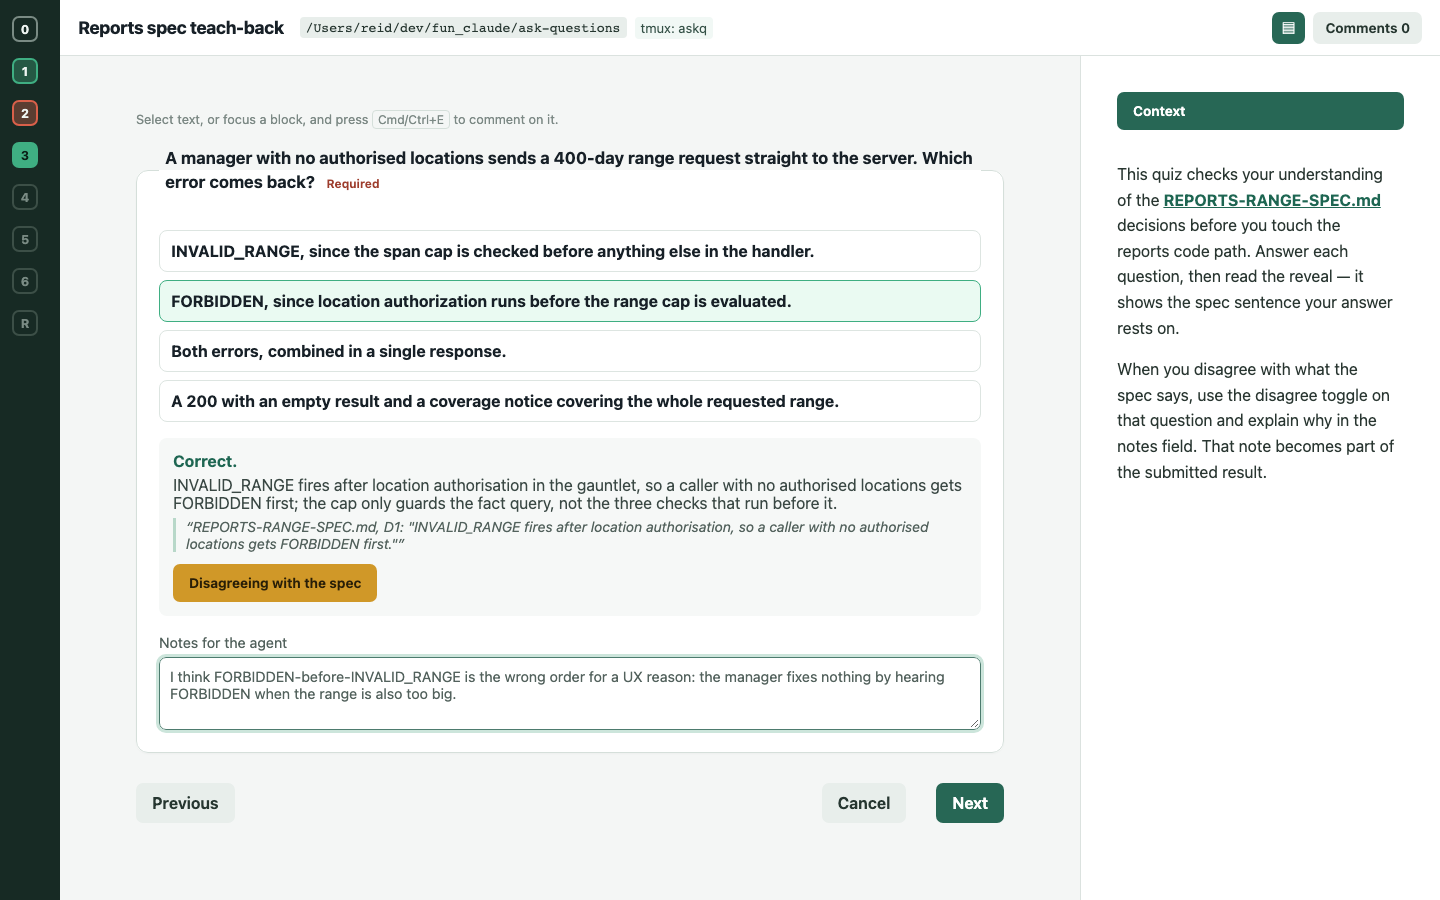
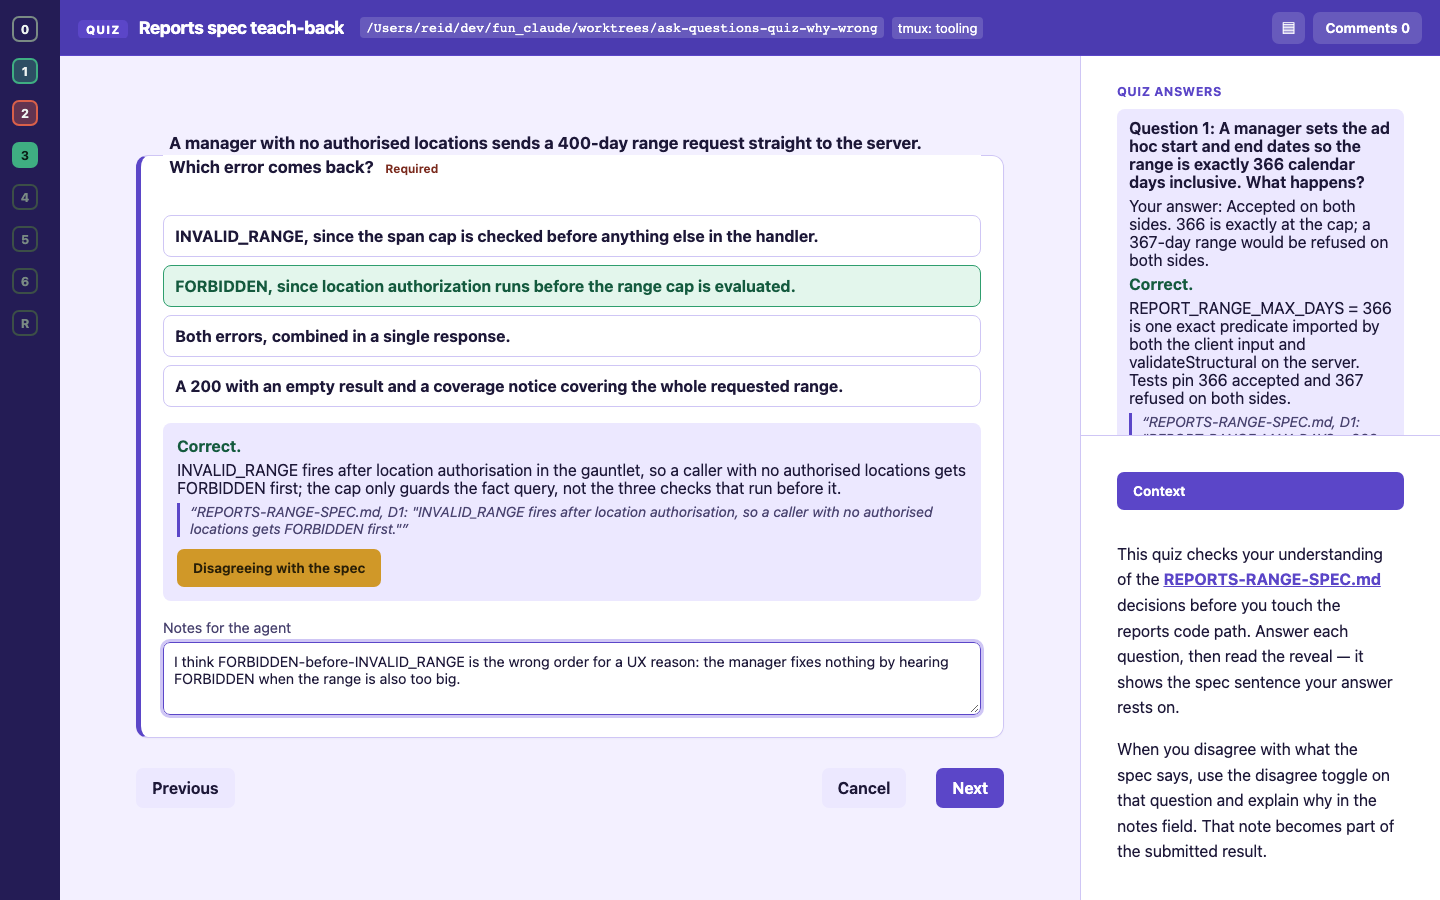
feat(quiz): every wrong option carries whyWrong; wrong picks show it; quiz forms get their own colour scheme
Each quiz option that is not the answer must now carry "whyWrong" (why this
choice is wrong compared with the right one); the answer option must not.
The validator refuses a quiz without it. After a wrong pick the form shows
that option's whyWrong before the why and cite; the review view and copied
summary list every wrong option's whyWrong for missed or disagreed questions.
A form made only of quiz questions gets a violet scheme with a QUIZ badge,
with a dark variant. Help, README, example and tests updated.

Claude-Session: https://claude.ai/code/session_01Kujo75X1zJefajDjYS5NZF

diff --git a/web/style.css b/web/style.css
@@ -190,6 +190,7 @@ button.primary { background: #276755; color: #fff; }
 .quiz-verdict { margin: 0 0 6px; font-weight: 700; }
 .quiz-verdict.correct { color: #1e6652; }
 .quiz-verdict.incorrect { color: #9d3d2d; }
+.quiz-why-wrong { margin: 6px 0; padding-left: 10px; border-left: 3px solid #d9604a; color: #7a3326; }
 .quiz-why { margin: 6px 0; color: #3a4844; }
 .quiz-cite { margin: 6px 0 0; padding-left: 10px; border-left: 3px solid #b8d8c9; color: #53625d; font-size: .88rem; font-style: italic; }
 .quiz-disagree-toggle { margin-top: 12px; background: #e8eeeb; color: #263630; font-size: .85rem; }
@@ -258,3 +259,68 @@ button.primary { background: #276755; color: #fff; }
 .diagram-source-hidden { display: none; }
 pre[data-diagram-state="failed"]::before { content: "Diagram could not be drawn. Source:"; display: block; margin-bottom: 6px; font: 600 .8rem sans-serif; color: #8a4b00; }
 .message img, .documents-pane img { max-width: 100%; height: auto; border-radius: 4px; }
+
+/* --- Quiz colour scheme --------------------------------------------------- */
+/* Applied by app.js (body.quiz-mode) only when every question is a quiz, so a quiz never looks like
+   a decision form. Light by default; the dark variant follows the system setting. Right (green) and
+   wrong (red) keep their meaning inside the scheme, and the whyWrong text has its own readable colour. */
+body.quiz-mode {
+  --q-bg: #f3f0ff; --q-card: #fff; --q-text: #1d1838; --q-muted: #4a4470; --q-border: #cfc6f5;
+  --q-accent: #5b46c8; --q-accent-text: #fff; --q-band: #4b3bb0; --q-band-text: #fff; --q-rail: #241c55;
+  --q-soft: #ece8ff; --q-reveal: #ece8ff;
+  --q-ok-bg: #e3f6ec; --q-ok-border: #2f9e6e; --q-ok-text: #145a3e;
+  --q-bad-bg: #fde8e4; --q-bad-border: #d9604a; --q-bad-text: #7a2a1d;
+  background: var(--q-bg); color: var(--q-text);
+}
+@media (prefers-color-scheme: dark) {
+  body.quiz-mode {
+    color-scheme: dark;
+    --q-bg: #151228; --q-card: #211c3f; --q-text: #ece9ff; --q-muted: #b9b2e6; --q-border: #3c3470;
+    --q-accent: #8d7bff; --q-accent-text: #120d33; --q-band: #2c2370; --q-band-text: #f1eeff; --q-rail: #0f0c20;
+    --q-soft: #2c2650; --q-reveal: #2c2650;
+    --q-ok-bg: #12372b; --q-ok-border: #4cc79a; --q-ok-text: #bff0dc;
+    --q-bad-bg: #44201c; --q-bad-border: #ff8a76; --q-bad-text: #ffd0c7;
+  }
+}
+body.quiz-mode .rail, body.quiz-mode .rail:hover .rail-items, body.quiz-mode .rail.pinned .rail-items, body.quiz-mode .rail-legend { background: var(--q-rail); }
+body.quiz-mode .app-header { background: var(--q-band); border-bottom-color: var(--q-accent); color: var(--q-band-text); }
+body.quiz-mode .app-title::before { content: "QUIZ"; margin-right: 10px; padding: 3px 8px; border-radius: 5px; background: var(--q-accent); color: var(--q-accent-text); font-size: .72rem; font-weight: 800; letter-spacing: .1em; vertical-align: middle; }
+body.quiz-mode .asker-path, body.quiz-mode .asker-tmux-window, body.quiz-mode .icon-button, body.quiz-mode .annotation-panel-toggle { background: rgb(255 255 255 / 16%); color: var(--q-band-text); }
+body.quiz-mode .question-card, body.quiz-mode .review-card { background: var(--q-card); border-color: var(--q-border); border-left: 5px solid var(--q-accent); }
+body.quiz-mode .eyebrow, body.quiz-mode .review-item h3 { color: var(--q-accent); }
+body.quiz-mode .message, body.quiz-mode .notes-label, body.quiz-mode .review-message, body.quiz-mode .review-label, body.quiz-mode .optional, body.quiz-mode .copy-status { color: var(--q-muted); }
+body.quiz-mode .message a { color: var(--q-accent); }
+body.quiz-mode .message pre, body.quiz-mode .quiz-score, body.quiz-mode .annotation-text { background: var(--q-soft); }
+body.quiz-mode .review-item { border-top-color: var(--q-border); }
+body.quiz-mode textarea { background: var(--q-card); border-color: var(--q-border); color: var(--q-text); }
+body.quiz-mode textarea:focus { border-color: var(--q-accent); outline-color: var(--q-border); }
+body.quiz-mode .quiz-option { background: var(--q-card); border-color: var(--q-border); color: var(--q-text); }
+body.quiz-mode .quiz-option:hover:not(:disabled) { border-color: var(--q-accent); background: var(--q-soft); }
+body.quiz-mode .quiz-option small { color: var(--q-muted); }
+body.quiz-mode .quiz-option.correct { border-color: var(--q-ok-border); background: var(--q-ok-bg); color: var(--q-ok-text); }
+body.quiz-mode .quiz-option.chosen-wrong { border-color: var(--q-bad-border); background: var(--q-bad-bg); color: var(--q-bad-text); }
+body.quiz-mode .quiz-reveal { background: var(--q-reveal); }
+body.quiz-mode .quiz-verdict.correct { color: var(--q-ok-text); }
+body.quiz-mode .quiz-verdict.incorrect { color: var(--q-bad-text); }
+body.quiz-mode .quiz-why-wrong { border-left-color: var(--q-bad-border); background: var(--q-bad-bg); color: var(--q-bad-text); padding: 8px 10px; border-radius: 0 6px 6px 0; }
+body.quiz-mode .quiz-why { color: var(--q-text); }
+body.quiz-mode .quiz-cite { border-left-color: var(--q-accent); color: var(--q-muted); }
+body.quiz-mode button.primary, body.quiz-mode .actions [type="submit"], body.quiz-mode #next-question { background: var(--q-accent); color: var(--q-accent-text); }
+body.quiz-mode button.secondary, body.quiz-mode .quiz-disagree-toggle { background: var(--q-soft); color: var(--q-text); }
+body.quiz-mode .quiz-disagree-toggle.active { background: #d99e2a; color: #2b2007; }
+body.quiz-mode button:focus-visible { outline-color: var(--q-accent); }
+body.quiz-mode .documents-pane { background: var(--q-card); border-left-color: var(--q-border); color: var(--q-text); }
+body.quiz-mode .quiz-log { border-bottom-color: var(--q-border); }
+body.quiz-mode .quiz-log-title { color: var(--q-accent); }
+body.quiz-mode .quiz-log-entry { background: var(--q-soft); }
+body.quiz-mode .quiz-log-heading { color: var(--q-text); }
+body.quiz-mode .quiz-log-answer, body.quiz-mode .document-content { color: var(--q-text); }
+body.quiz-mode .quiz-log-disagree { color: #d99e2a; }
+body.quiz-mode .document-list button { background: var(--q-soft); color: var(--q-text); }
+body.quiz-mode .document-list button.active { background: var(--q-accent); color: var(--q-accent-text); }
+body.quiz-mode .document-content a { color: var(--q-accent); }
+body.quiz-mode .document-content pre { background: var(--q-soft); }
+body.quiz-mode .document-content table { background: none; }
+body.quiz-mode .document-content th, body.quiz-mode .document-content td { border-color: var(--q-border); }
+body.quiz-mode .document-content th { background: var(--q-soft); color: var(--q-text); }
+body.quiz-mode .required { color: var(--q-bad-text); }

diff --git a/web/app.js b/web/app.js
@@ -42,6 +42,9 @@ const quizLogEntries = new Map();
 
 document.title = session.title || 'Questions';
 document.querySelector('#page-title').textContent = session.title || 'Questions';
+// A form made only of quiz questions gets its own colour scheme (violet, with a Quiz badge in
+// the header) so it reads at a glance as a quiz and not as a decision. Mixed forms keep the default.
+if (session.questions.length > 0 && session.questions.every((question) => question.type === 'quiz')) document.body.classList.add('quiz-mode');
 const askerPath = document.querySelector('#asker-path');
 askerPath.textContent = session.askerPath;
 askerPath.title = 'Click to copy';
@@ -134,6 +137,10 @@ function renderQuizReveal(question, reveal, notesTextarea, questionIndex) {
   const verdict = create('p', { className: `quiz-verdict ${state.correct ? 'correct' : 'incorrect'}` });
   verdict.textContent = state.correct ? 'Correct.' : `Not quite — the spec says: ${correctOption?.label ?? question.answer}.`;
   reveal.append(verdict);
+  const chosenOption = question.options.find((option) => option.value === state.value);
+  if (!state.correct && chosenOption?.whyWrong) {
+    reveal.append(create('p', { className: 'quiz-why-wrong', textContent: `Why your choice was wrong: ${chosenOption.whyWrong}` }));
+  }
   if (question.why) reveal.append(create('p', { className: 'quiz-why', textContent: question.why }));
   if (question.cite) reveal.append(create('p', { className: 'quiz-cite', textContent: `“${question.cite}”` }));
   if (question.allowDisagree !== false) {
@@ -338,9 +345,12 @@ function renderQuizScore(answers) {
       const block = create('div', { className: 'quiz-score-block' });
       block.append(create('p', { textContent: question.prompt }));
       block.append(create('p', { textContent: summaryLine }));
+      const wrongOptions = question.options.filter((option) => option.value !== question.answer && option.whyWrong);
+      const wrongLines = wrongOptions.map((option) => `Why "${option.label}" is wrong: ${option.whyWrong}`);
+      wrongLines.forEach((line) => block.append(create('p', { className: 'quiz-why-wrong', textContent: line })));
       if (notes) block.append(create('p', { textContent: `Note: ${notes}` }));
       quizScoreEl.append(block);
-      lines.push(question.prompt, summaryLine);
+      lines.push(question.prompt, summaryLine, ...wrongLines);
       if (notes) lines.push(`Note: ${notes}`);
       lines.push('');
     });
@@ -706,6 +716,7 @@ function recordQuizAnswer(question, questionIndex, state) {
     optionLabel: chosenOption?.label ?? state.value,
     correct: state.correct,
     correctLabel: correctOption?.label ?? question.answer,
+    whyWrong: state.correct ? undefined : chosenOption?.whyWrong,
     why: question.why,
     cite: question.cite,
     disagree: state.disagree,
@@ -736,6 +747,7 @@ function renderQuizLog() {
       className: `quiz-verdict ${entry.correct ? 'correct' : 'incorrect'}`,
       textContent: entry.correct ? 'Correct.' : `Not quite — the spec says: ${entry.correctLabel}.`,
     }));
+    if (entry.whyWrong) item.append(create('p', { className: 'quiz-why-wrong', textContent: `Why your choice was wrong: ${entry.whyWrong}` }));
     if (entry.why) item.append(create('p', { className: 'quiz-why', textContent: entry.why }));
     if (entry.cite) item.append(create('p', { className: 'quiz-cite', textContent: `“${entry.cite}”` }));
     if (entry.disagree) item.append(create('p', { className: 'quiz-log-disagree', textContent: 'Disagreed with the spec.' }));

diff --git a/test/contract.test.js b/test/contract.test.js
@@ -230,7 +230,7 @@ test('accepts a quiz question and normalises correct/answer/disagree', () => {
       answer: 'a',
       why: 'Because the spec says so',
       cite: 'Section 2.1',
-      options: [{ value: 'a', label: 'A' }, { value: 'b', label: 'B' }],
+      options: [{ value: 'a', label: 'A' }, { value: 'b', label: 'B', whyWrong: 'B contradicts section 2.1' }],
     }],
   };
   validatePayload(quizPayload);
@@ -265,4 +265,37 @@ test('parses --presence and --ignore-presence, and rejects --presence with a lau
   assert.deepEqual(parseArguments(['--json', '{}', '--ignore-presence']), { ...defaultParsedArguments, json: '{}', ignorePresence: true });
   assert.throws(() => parseArguments(['--presence', '--json', '{}']), ContractError);
   assert.throws(() => parseArguments(['--presence', '--open']), ContractError);
+});
+
+const wwPayload = (options, answer = 'a') => ({
+  version: 1,
+  questions: [{ id: 'quiz-1', prompt: 'Pick', type: 'quiz', answer, options }],
+});
+
+test('accepts a quiz whose wrong options all carry whyWrong and records the chosen option', () => {
+  const payload = wwPayload([{ value: 'a', label: 'A' }, { value: 'b', label: 'B', whyWrong: 'B ignores the cap.' }]);
+  validatePayload(payload);
+  const wrong = validateAnswers(payload, [{ questionId: 'quiz-1', value: 'b', notes: '', disagree: false }]);
+  assert.equal(wrong['quiz-1'].value, 'b');
+  assert.equal(wrong['quiz-1'].correct, false);
+  const right = validateAnswers(payload, [{ questionId: 'quiz-1', value: 'a', notes: '', disagree: false }]);
+  assert.equal(right['quiz-1'].value, 'a');
+  assert.equal(right['quiz-1'].correct, true);
+});
+
+test('rejects a quiz wrong option without whyWrong, saying this is what makes the quiz teach', () => {
+  const payload = wwPayload([{ value: 'a', label: 'A' }, { value: 'b', label: 'B' }, { value: 'c', label: 'C', whyWrong: '  ' }]);
+  assert.throws(() => validatePayload(payload), (error) => {
+    assert.ok(error instanceof ContractError);
+    const text = JSON.stringify(error.issues);
+    assert.match(text, /options\[1\]\.whyWrong/);
+    assert.match(text, /options\[2\]\.whyWrong/);
+    assert.match(text, /This is what makes the quiz teach/);
+    return true;
+  });
+});
+
+test('rejects whyWrong on the answer option and on non-quiz options', () => {
+  assert.throws(() => validatePayload(wwPayload([{ value: 'a', label: 'A', whyWrong: 'x' }, { value: 'b', label: 'B', whyWrong: 'y' }])), ContractError);
+  assert.throws(() => validatePayload({ version: 1, questions: [{ id: 's', prompt: 'P', type: 'single', options: [{ value: 'a', label: 'A', whyWrong: 'x' }] }] }), ContractError);
 });

diff --git a/lib/contract.js b/lib/contract.js
@@ -71,6 +71,7 @@ export function validatePayload(payload) {
           string(option.value, `${optionPrefix}.value`, issues);
           string(option.label, `${optionPrefix}.label`, issues);
           if (option.description !== undefined) string(option.description, `${optionPrefix}.description`, issues, { required: false });
+          if (question.type !== 'quiz' && option.whyWrong !== undefined) issue(issues, `${optionPrefix}.whyWrong`, 'is only valid for quiz options');
           if (values.has(option.value)) issue(issues, `${optionPrefix}.value`, 'must be unique within this question');
           values.add(option.value);
         });
@@ -84,6 +85,19 @@ export function validatePayload(payload) {
         if (typeof question.answer === 'string' && Array.isArray(question.options)) {
           const optionValues = new Set(question.options.map((option) => option.value));
           if (!optionValues.has(question.answer)) issue(issues, `${prefix}.answer`, 'must equal one of this question\'s option values');
+        }
+        // Every wrong option explains why it is wrong compared with the right one, so the
+        // quiz teaches instead of only scoring. The answer option never carries it.
+        if (typeof question.answer === 'string' && Array.isArray(question.options)) {
+          question.options.forEach((option, optionIndex) => {
+            if (!isObject(option)) return;
+            const whyWrongPath = `${prefix}.options[${optionIndex}].whyWrong`;
+            if (option.value === question.answer) {
+              if (option.whyWrong !== undefined) issue(issues, whyWrongPath, 'must not be set on the answer option; put the explanation of the right answer in why');
+            } else if (typeof option.whyWrong !== 'string' || option.whyWrong.trim() === '') {
+              issue(issues, whyWrongPath, 'is required on every wrong quiz option: say why this choice is wrong compared with the right one. This is what makes the quiz teach');
+            }
+          });
         }
       } else if (question.answer !== undefined || question.why !== undefined || question.cite !== undefined || question.allowDisagree !== undefined) {
         issue(issues, prefix, 'answer, why, cite, and allowDisagree are only valid for quiz questions');

diff --git a/test/cli.test.js b/test/cli.test.js
@@ -78,6 +78,8 @@ test('help is a self-sufficient agent contract', async () => {
       '"message": "optional non-empty Markdown string"',
       '"type": "single" | "multiple" | "text" | "quiz"',
       '"allowOther": true | false,                // optional; single/multiple only; defaults to true. Set false to turn Other off. Invalid on quiz.',
+      '"whyWrong": "string"',
+      'REQUIRED on every option that is not the answer',
       '"answer": "option value",                 // quiz only; required; must equal one of this question\'s option values',
       '"score":{"right":N,"wrong":N,"disagree":N,"total":N}',
       'Single and multiple-choice questions show an Other free-text option by default.',
@@ -610,6 +612,13 @@ test('interface source keeps rail navigation, safe review rendering, and Other i
   assert.match(app, /quizState\.set\(question\.id/);
   assert.match(app, /I disagree with the spec here/);
   assert.match(app, /function renderQuizScore\(/);
+  assert.match(app, /every\(\(question\) => question\.type === 'quiz'\)\) document\.body\.classList\.add\('quiz-mode'\)/);
+  const css = await readFile(new URL('../web/style.css', import.meta.url), 'utf8');
+  assert.match(css, /body\.quiz-mode \.app-header/);
+  assert.match(css, /@media \(prefers-color-scheme: dark\) \{\s*body\.quiz-mode/);
+  assert.match(css, /body\.quiz-mode \.quiz-why-wrong/);
+  assert.match(app, /Why your choice was wrong: \$\{chosenOption\.whyWrong\}/);
+  assert.match(app, /is wrong: \$\{option\.whyWrong\}/);
   assert.match(app, /correct: value === question\.answer, answer: question\.answer, disagree: disagree \?\? false/);
 
   // Quiz log: every reveal (initial answer and disagree toggle) is also

diff --git a/bin/ask-questions.js b/bin/ask-questions.js
@@ -131,12 +131,13 @@ Payload schema (version must be 1):
         "options": [{                              // required for single, multiple, and quiz
           "value": "unique non-empty string",
           "label": "non-empty string",
-          "description": "optional string"
+          "description": "optional string",
+          "whyWrong": "string"                     // quiz only; REQUIRED on every option that is not the answer: why this choice is wrong compared with the right one. Forbidden on the answer option. This is what makes the quiz teach.
         }],
         "allowOther": true | false,                // optional; single/multiple only; defaults to true. Set false to turn Other off. Invalid on quiz.
         "placeholder": "optional string",         // optional; text and Other inputs
         "answer": "option value",                 // quiz only; required; must equal one of this question's option values
-        "why": "optional string",                 // quiz only; shown after the person answers
+        "why": "optional string",                 // quiz only; shown after the person answers (why the answer is right). A wrong pick also sees that option's whyWrong first
         "cite": "optional string",                // quiz only; shown after the person answers, as the spec sentence the answer rests on
         "allowDisagree": true | false             // quiz only; optional, defaults to true; shows an "I disagree with the spec here" toggle
       }

diff --git a/README.md b/README.md
@@ -121,6 +121,27 @@ flowchart LR
 - **Inline SVG.** An `svg` fenced block is sanitised on the server (scripts, event handlers, `foreignObject`, `style`, animation and external references are removed; only references to `#ids` inside the same SVG survive) and drawn as an image, using `sanitize-html`.
 - **Image files.** `![alt](relative/path.png)` resolves against the payload file's directory for `--file`, or the current directory for `--json`/stdin, like document paths. Only png, jpg, jpeg, gif, webp and svg files are served, only the ones the payload references, and only from inside that directory. A path that leaves it (`..` or a symbolic link), a missing file, or another file type stops the launch with an error. Remote `http(s)` images are left as written.
 
+## Quiz questions
+
+A `"type": "quiz"` question checks understanding. It takes `options`, an `"answer"` (one option value), and optional `"why"`, `"cite"` and `"allowDisagree"`.
+
+Every option that is not the answer must carry `"whyWrong"`: a sentence on why that choice is wrong compared with the right one. The answer option must not carry it. The payload is refused otherwise, because `whyWrong` is what makes the quiz teach instead of only scoring. The field is camelCase, like `allowDisagree`.
+
+```json
+{
+  "id": "range-cap", "type": "quiz", "prompt": "A range is exactly 366 days. What happens?",
+  "options": [
+    { "value": "a", "label": "Refused server-side.", "whyWrong": "The cap is 366, and both sides share one predicate, so 366 passes." },
+    { "value": "b", "label": "Accepted on both sides." }
+  ],
+  "answer": "b",
+  "why": "One shared constant caps both sides at 366.",
+  "cite": "REPORTS-RANGE-SPEC.md, D1"
+}
+```
+
+After the person picks an option, the form shows the verdict. A wrong pick shows that option's `whyWrong` first, then the `why` and `cite` for the right answer. The review screen lists the `whyWrong` of every wrong option for each question that was missed or disagreed with, and the copied quiz summary carries the same lines. The saved answer for each quiz question records `value` (the option chosen), `correct` (true or false), `answer` and `disagree`. See `examples/quiz.json`.
+
 ## Durable answers
 
 Every submitted result is also written to its own file, so a caller's own stdout redirect is never the only copy of an answer. On submit, before printing to stdout, the command writes the full result to `~/.ask-questions/answers/<timestamp>-<answersId>.json`, atomically (a temp file written first, then renamed into place). The result's `answersId` and `answersFile` fields, and a matching line on stderr, all point at the same file. Cancelled sessions are not saved.
